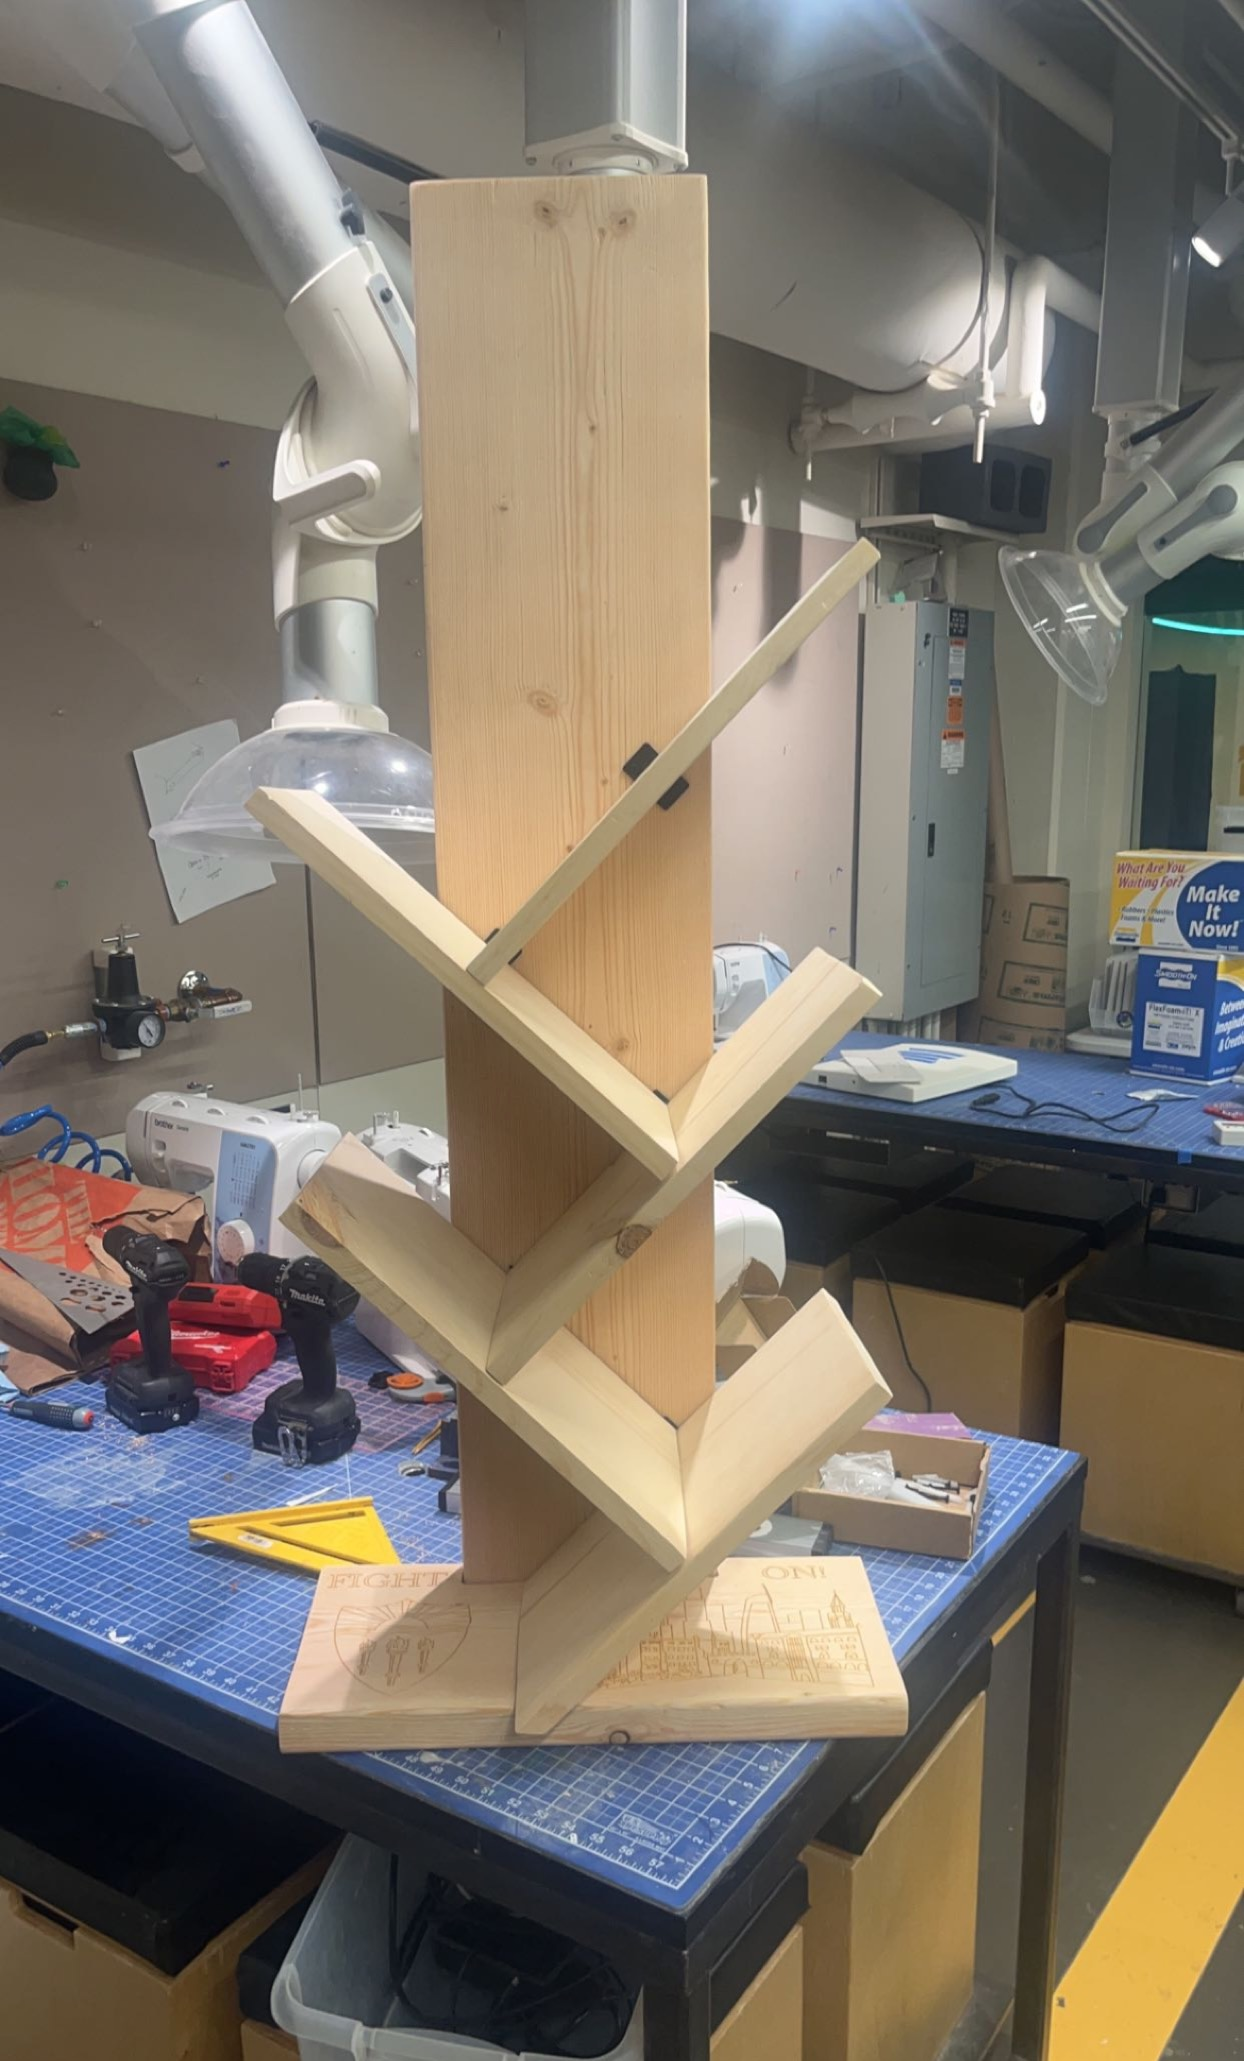
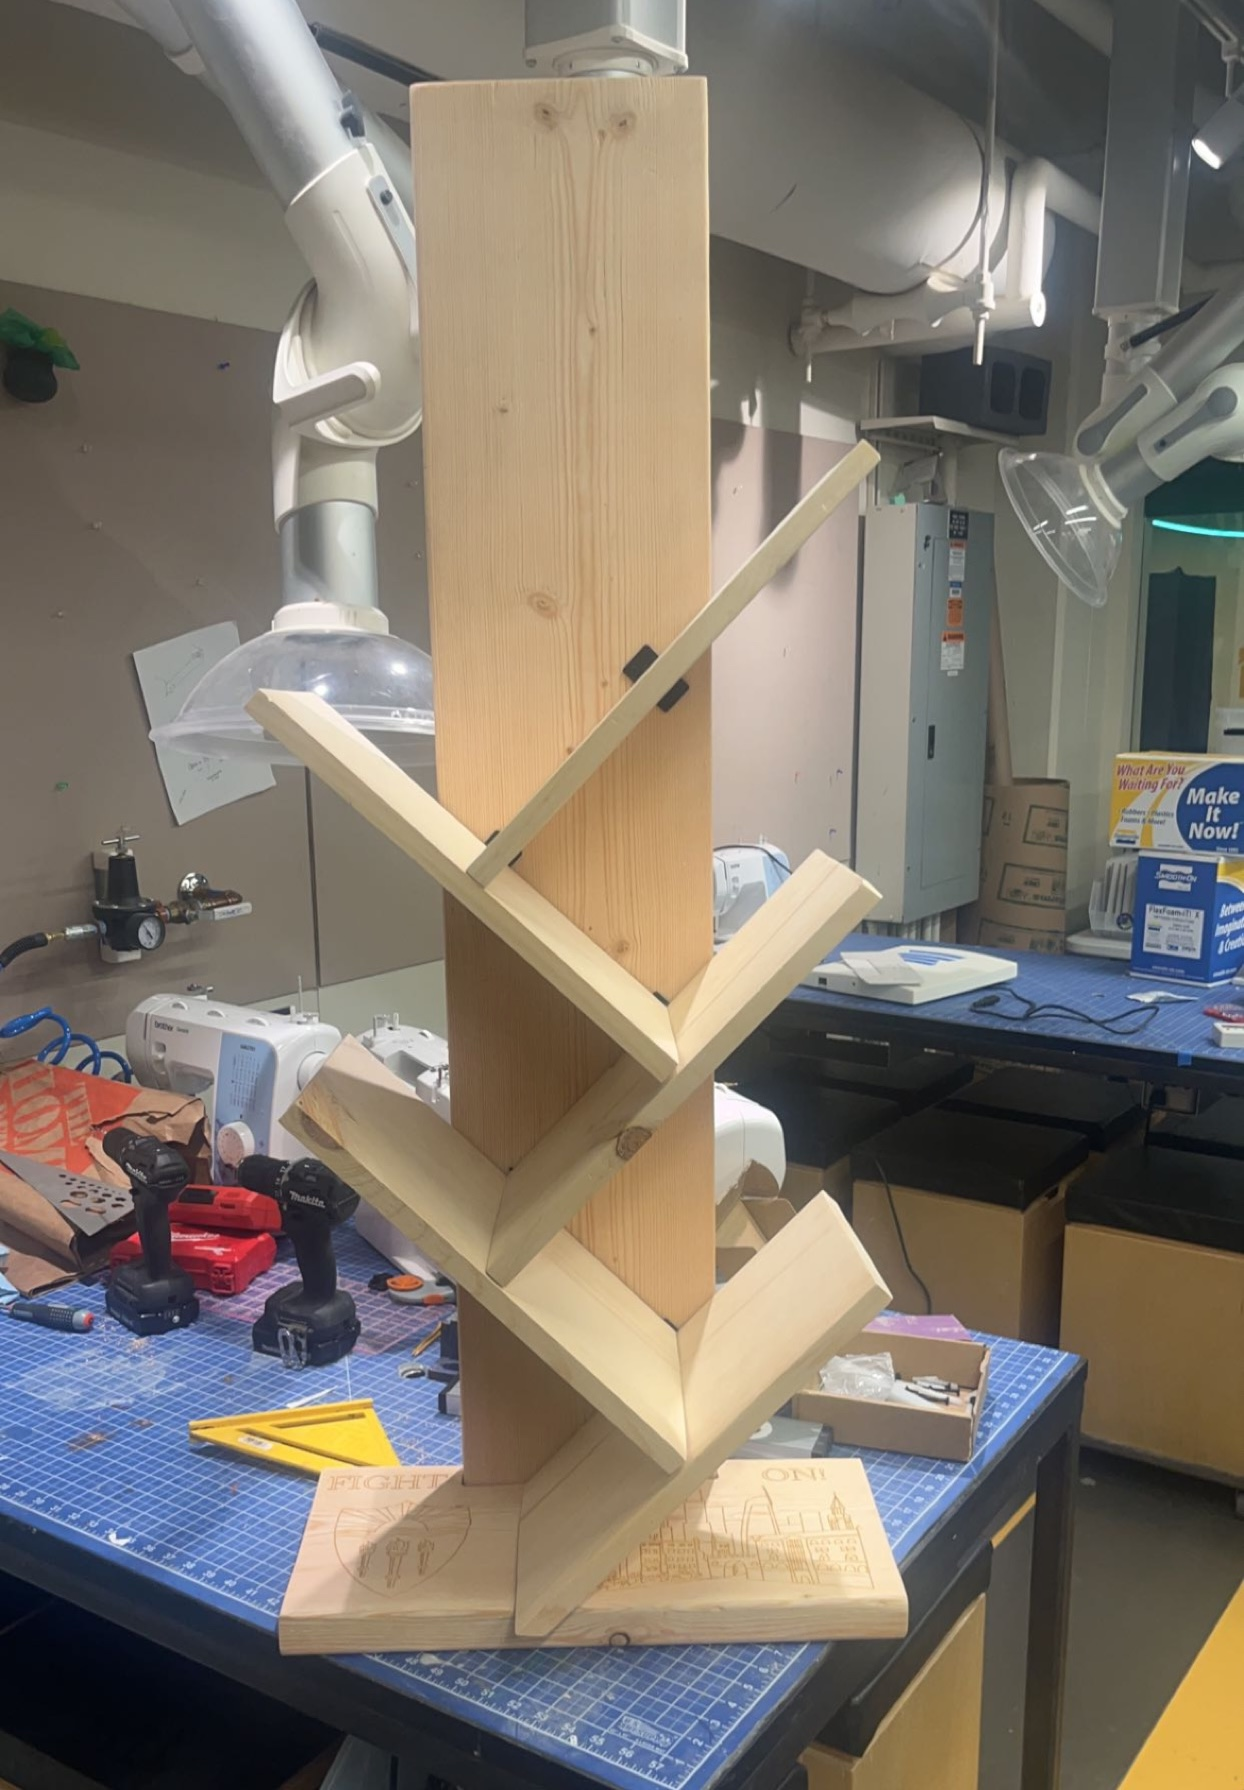
bookshelf project 3

diff --git a/projects/all_projects.html b/projects/all_projects.html
@@ -280,7 +280,7 @@
     .card img {
       width: 100%;
       height: 100px;
-      object-fit: cover;
+      object-fit: contain;
       border-radius: 5px;
       margin-bottom: 0.5rem;
       background: #e0e0e0;
@@ -444,7 +444,7 @@
       <!-- Item 5 (above line) — add more projects here following the same pattern -->
       <div class="timeline-item">
         <div class="card">
-          <img src="../media/project_music.jpg" alt="Mariachi">
+          <img src="../media/BOOKSHELF/BOOKSHELF_5" alt="Bookshelf">
           <div class="card-date">Spring 2023</div>
           <span class="card-category">Engineering</span>
           <h3>Tree Bookshelf</h3>
